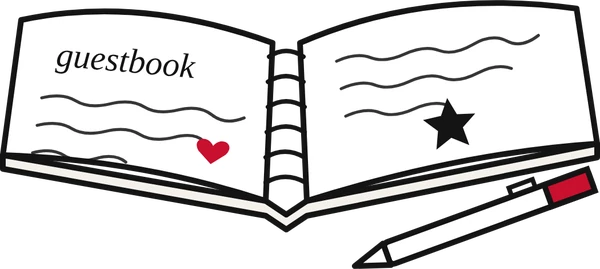
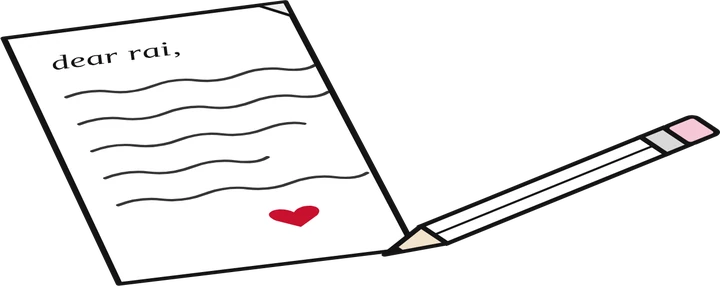
Guestbook object: letter and pencil on the rug
Claude-Session: https://claude.ai/code/session_01H8mUHYYn5LXshRq5LgGWXu

diff --git a/index.html b/index.html
@@ -321,7 +321,7 @@ const OBJS=[
   {id:'selina',sec:'meow',label:'Selina',box:[1163,1054,1456,1203]},
   {id:'london',sec:'meow',label:'London',box:[755,1518,1091,1713]},
   {id:'moon',sec:'night',box:[1125,398,1243,528],still:true},
-  {id:'guestbook',sec:'guestbook',label:'sign my guestbook',box:[2390,1290,2690,1425]},
+  {id:'guestbook',sec:'guestbook',label:'sign my guestbook',box:[1104,1616,1504,1774]},
   {id:'logo',sec:'home',label:'Home',box:[51,289,596,552]},
 ];
 // areas still inside the background drawing (until they get their own layers)
